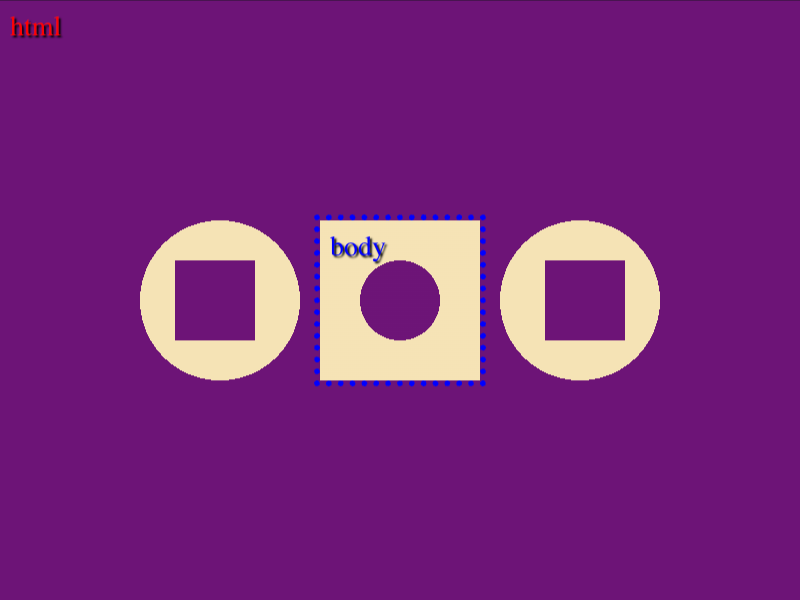
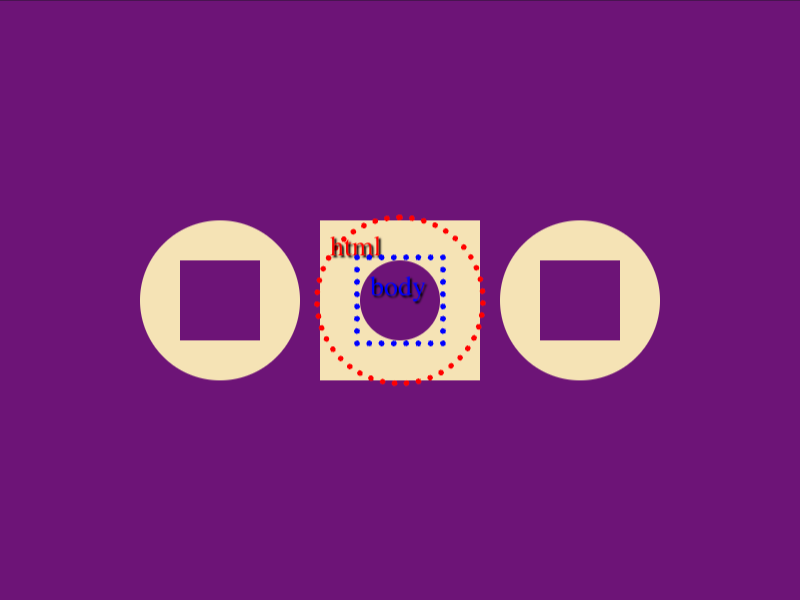
Score: 674.74, Characters: 176 (100.00% match) - CSSHub

diff --git a/Daily Targets/2026-08-14/README.md b/Daily Targets/2026-08-14/README.md
@@ -22,25 +22,29 @@ Challenge: <https://cssbattle.dev/play/tX0iC11qNcPozRZ9qhRO>
 ## Code
 
 ```html
-<style>*{*{--c:#6d1477 5vw,#f5e3b5;--p:;margin:110 160;color:6D1477;box-shadow:-5lh 0 0-5vw,5lh 0 0-5vw}background:radial-gradient(1q,var(--c,#f5e3b5 5ch,#6d1477))var(--p,5vw/45vw
+<style>&{margin:110 160;background:#6D1477;border-radius:9in;color:#F5E3B5}*{box-shadow:-90px 0,90px 0,var(--s,inset 0 0 0 20px);*{margin:20;color:#6D1477;--s:0 0 0 20px#F5E3B5
 ```
 
 ## Prettified code
 
 ```html
 <style>
+& {
+  margin: 110 160;
+  background: #6d1477;
+  border-radius: 9in;
+  color: #f5e3b5;
+}
 * {
+  box-shadow:
+    -90px 0,
+    90px 0,
+    var(--s, inset 0 0 0 20px);
   * {
-    --c: #6d1477 5vw, #f5e3b5;
-    --p:;
-    margin: 110 160;
-    color: 6D1477;
-    box-shadow:
-      -5lh 0 0 -5vw,
-      5lh 0 0 -5vw;
+    margin: 20;
+    color: #6d1477;
+    --s: 0 0 0 20px #f5e3b5;
   }
-  background: radial-gradient(1Q, var(--c, #f5e3b5 5ch, #6d1477))
-    var(--p, 5vw / 45vw);
 }
 
 </style>

diff --git a/README.md b/README.md
@@ -188,7 +188,7 @@ Note - I have not yet complete all the challenges.
 <li><a href="./Daily%20Targets/2026-08-11/">Aug 11, 2026</a> (167 Characters)</li>
 <li><a href="./Daily%20Targets/2026-08-12/">Aug 12, 2026</a> (224 Characters)</li>
 <li><a href="./Daily%20Targets/2026-08-13/">Aug 13, 2026</a> (193 Characters)</li>
-<li><a href="./Daily%20Targets/2026-08-14/">Aug 14, 2026</a> (179 Characters)</li>
+<li><a href="./Daily%20Targets/2026-08-14/">Aug 14, 2026</a> (176 Characters)</li>
 </ul>
 </details>
 </li>
